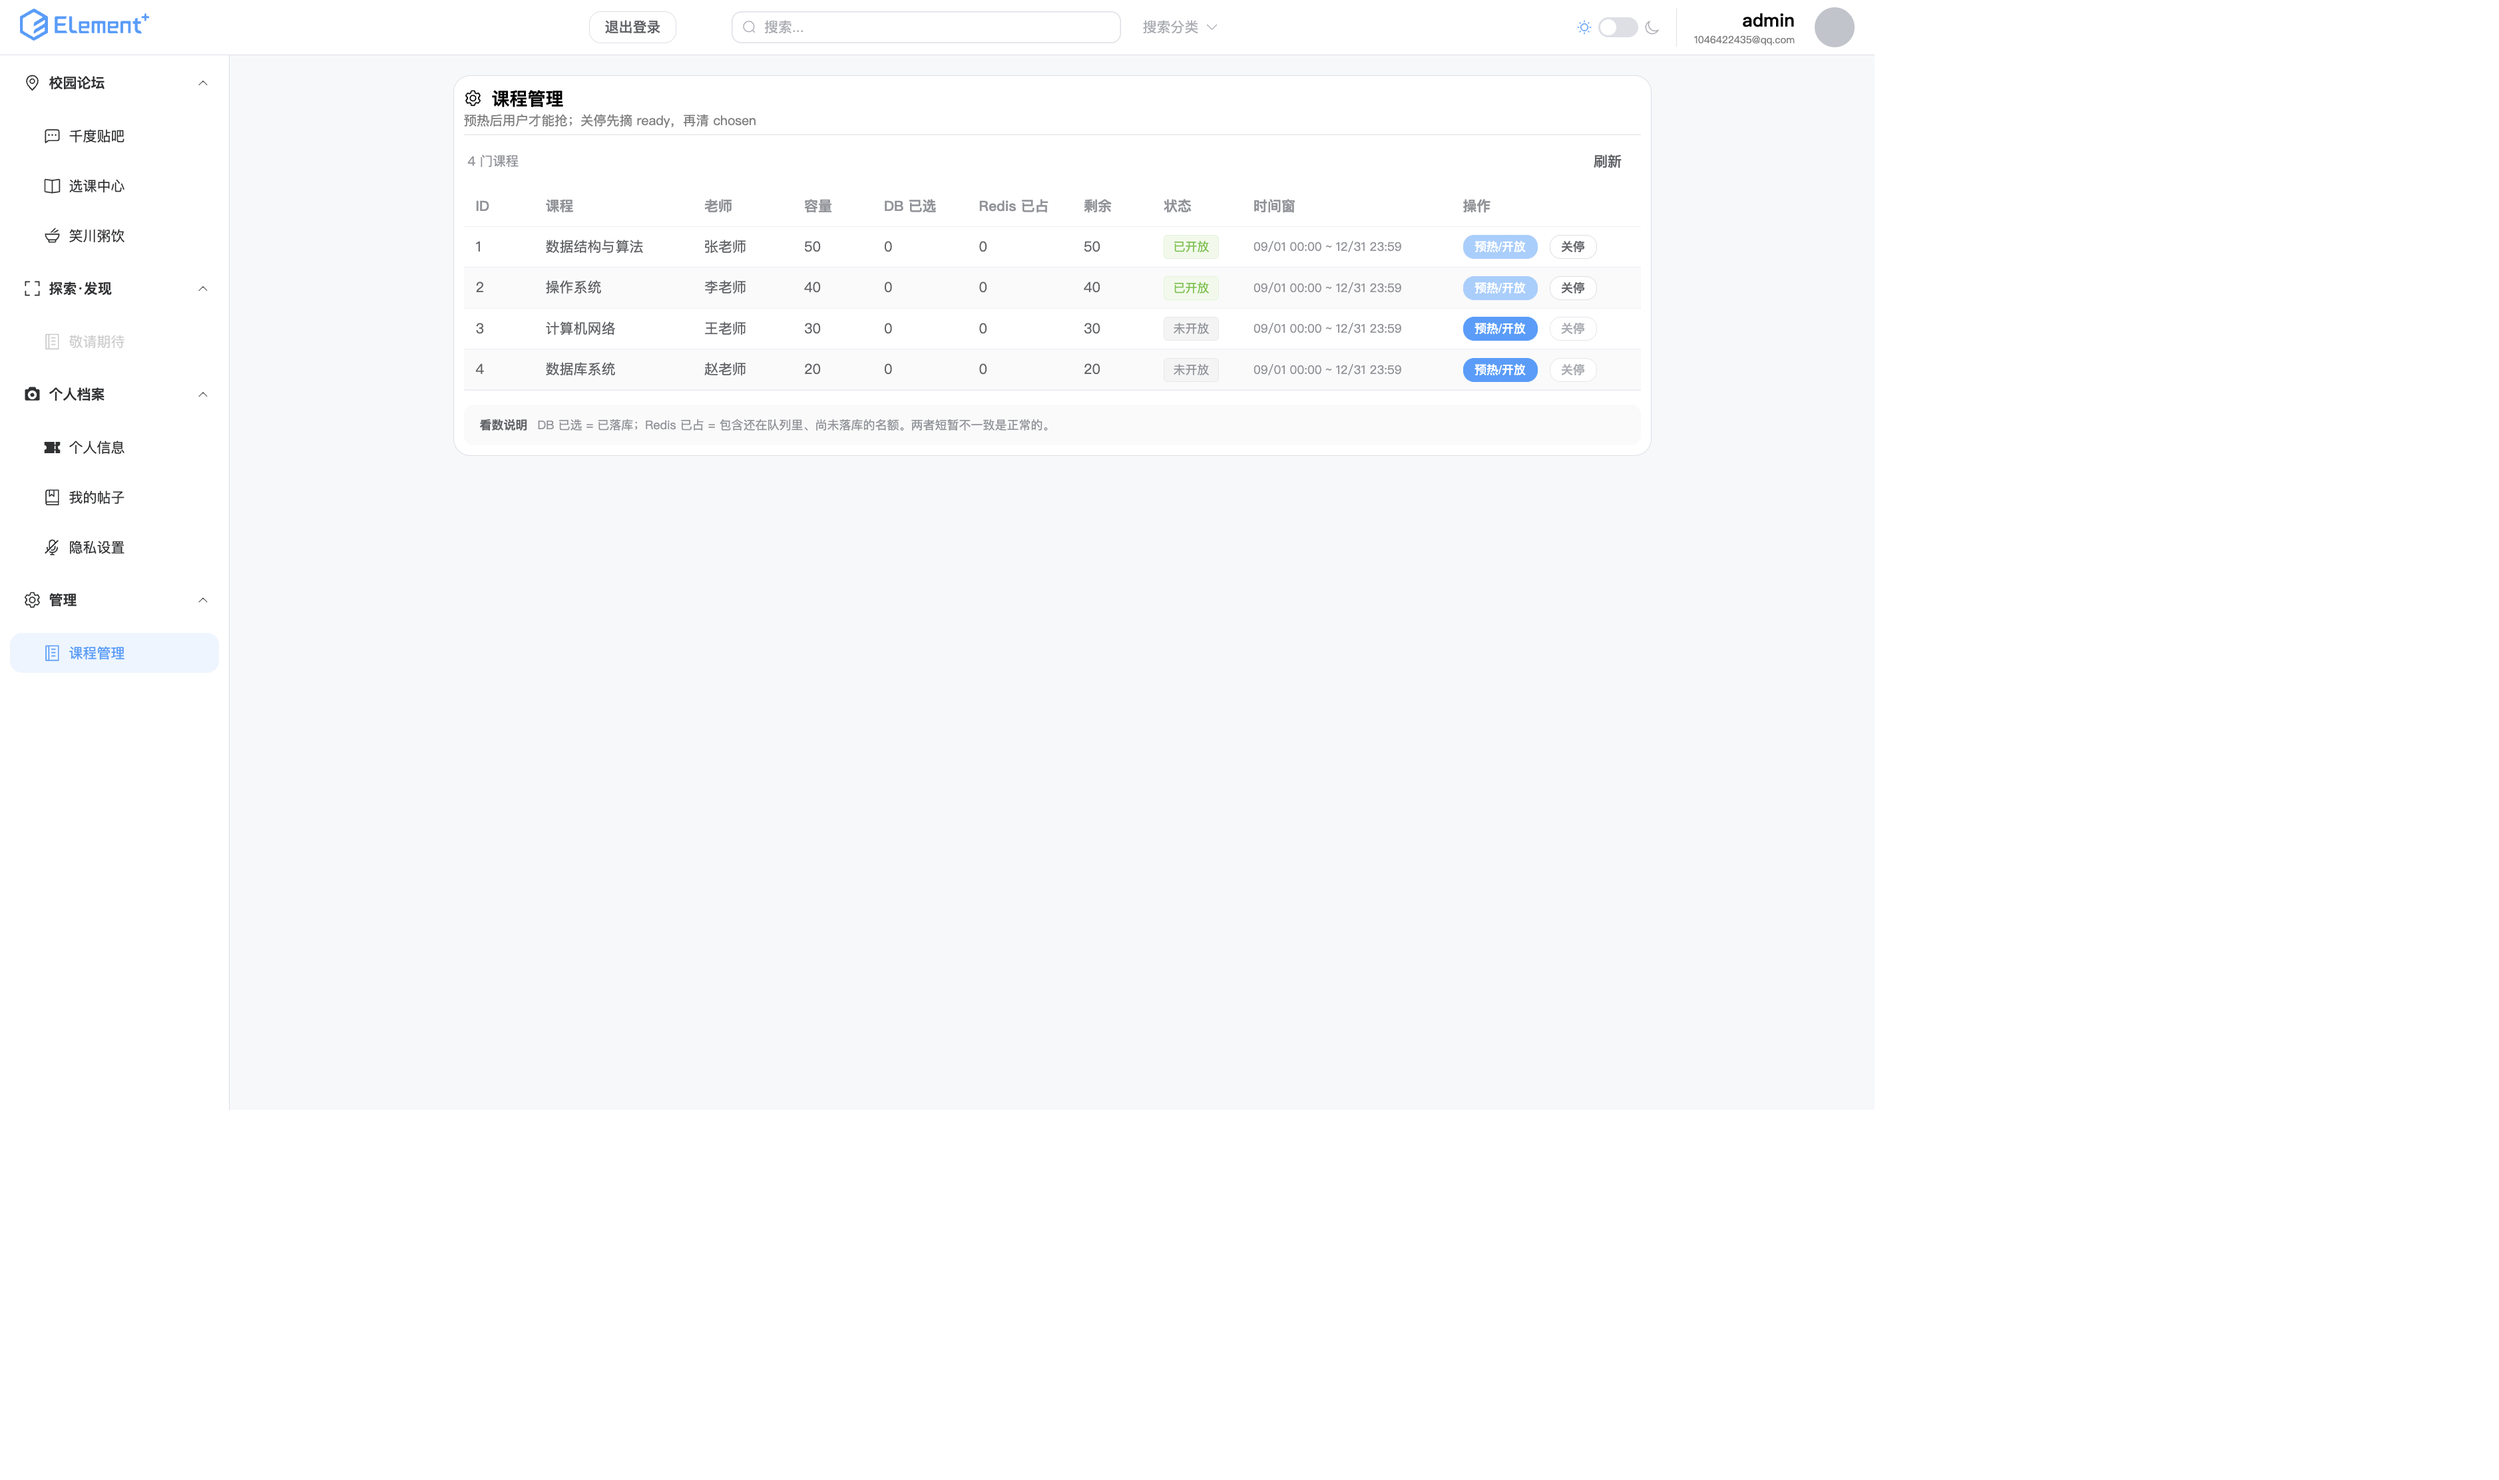
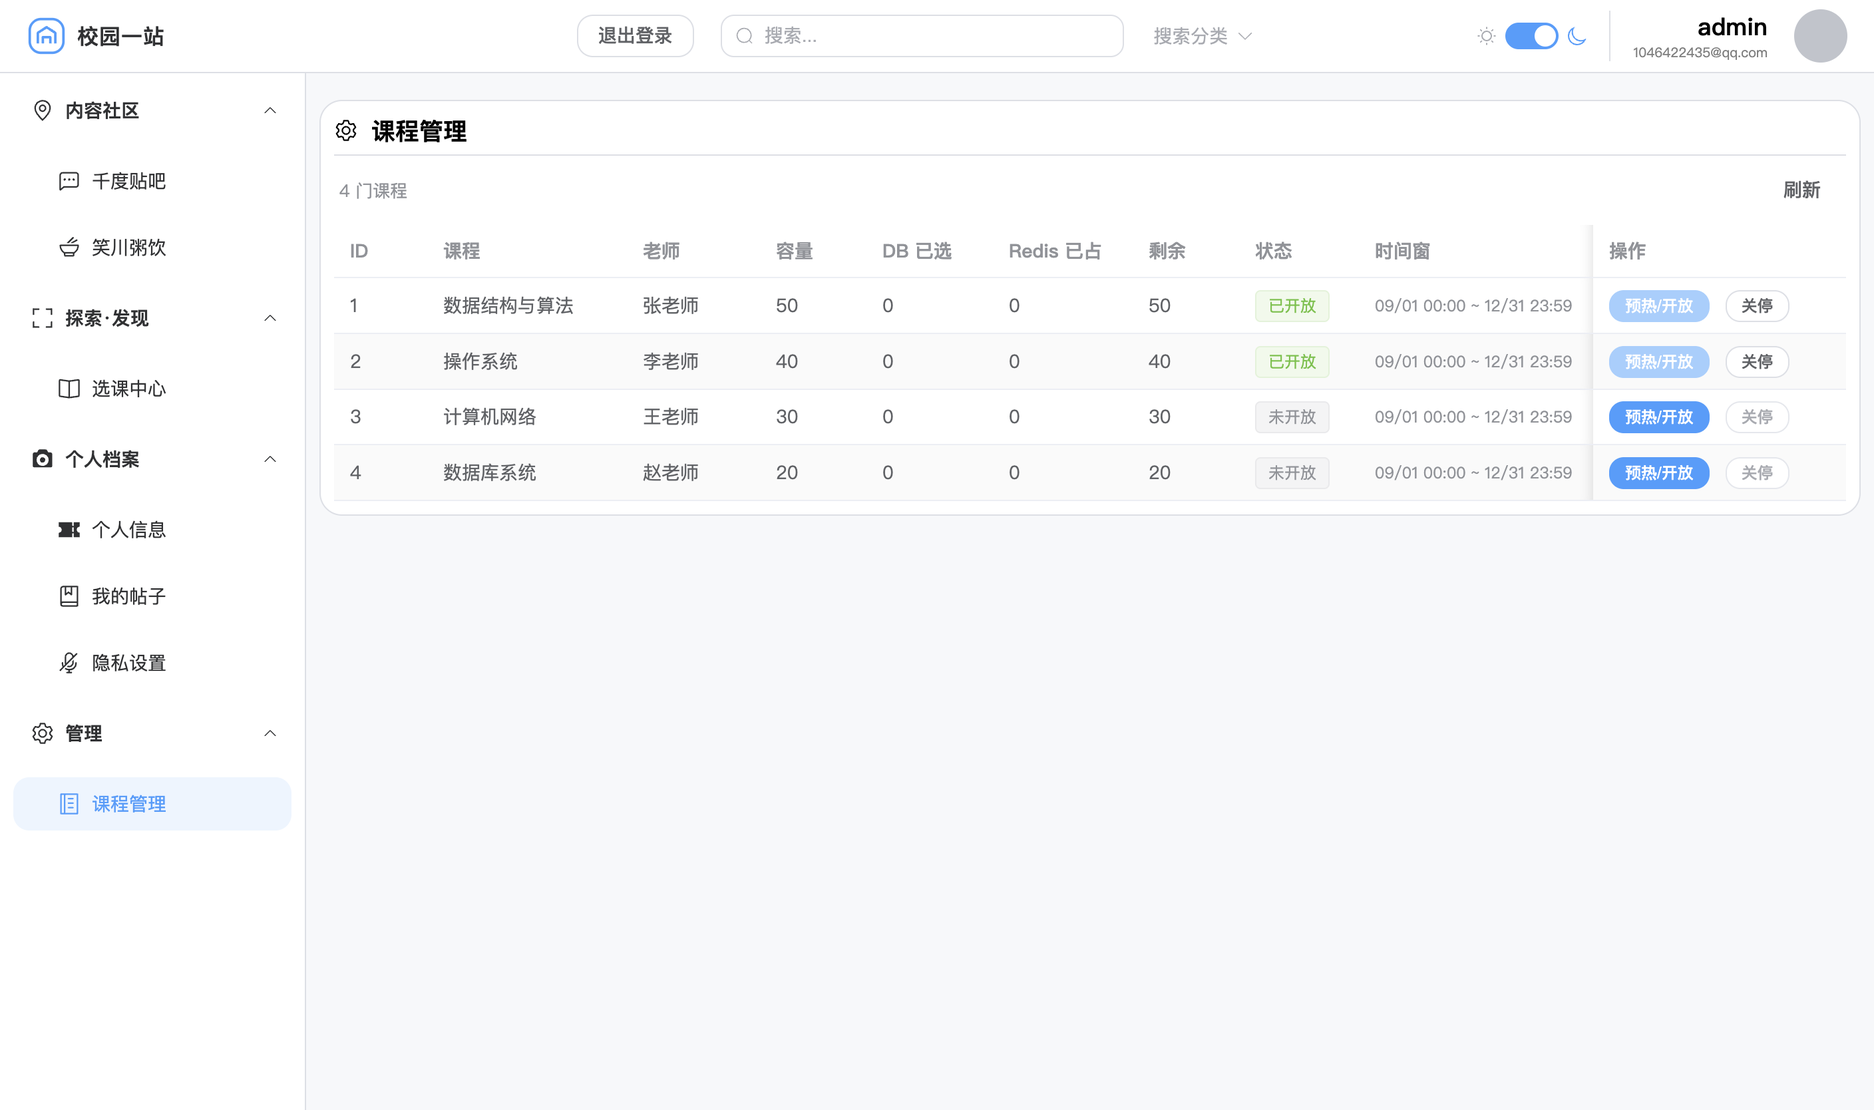
feat: 校园一站品牌、选课入口移入探索发现、精简课程页

diff --git a/my-project-frontend/src/views/IndexView.vue b/my-project-frontend/src/views/IndexView.vue
@@ -1,5 +1,6 @@
 <script setup>
 import {get, logout} from "@/net/index.js";
+import BrandLogo from "@/components/BrandLogo.vue";
 import router from "@/router/index.js";
 import {useStore} from "@/store";
 import {computed, nextTick, onBeforeUnmount, onMounted, reactive, ref} from "vue";
@@ -151,7 +152,7 @@ function userLogout() {
     <el-container style="height: 100%" v-if="!loading">
       <el-header class="main-content-header">
         <div style="flex: 1">
-          <el-image class="logo" src="https://element-plus.org/images/element-plus-logo.svg"></el-image>
+          <BrandLogo/>
         </div>
         <div>
           <el-button @click="userLogout">退出登录</el-button>
@@ -229,18 +230,12 @@ function userLogout() {
               <el-sub-menu index="1">
                 <template #title>
                   <el-icon><location/></el-icon>
-                  <span><b>校园论坛</b></span>
+                  <span><b>内容社区</b></span>
                 </template>
                 <el-menu-item index="/index/tieba">
                   <template #title>
                     <el-icon><chat-dot-square/></el-icon>
                     千度贴吧
-                  </template>
-                </el-menu-item>
-                <el-menu-item index="/index/course">
-                  <template #title>
-                    <el-icon><Reading/></el-icon>
-                    选课中心
                   </template>
                 </el-menu-item>
                 <!--
@@ -260,15 +255,10 @@ function userLogout() {
                   <el-icon><FullScreen /></el-icon>
                   <span><b>探索·发现</b></span>
                 </template>
-                <!--
-                  空子菜单会被 Element Plus 渲染成一个点开什么都没有的面板，
-                  看起来像没做完。所以放一个禁用态的占位项说明"这里以后会有东西"，
-                  比留个空壳强。disabled 让它点不动，也不会误导成可用的功能。
-                -->
-                <el-menu-item disabled>
+                <el-menu-item index="/index/course">
                   <template #title>
-                    <el-icon><Memo /></el-icon>
-                    敬请期待
+                    <el-icon><Reading/></el-icon>
+                    选课中心
                   </template>
                 </el-menu-item>
               </el-sub-menu>
@@ -408,7 +398,7 @@ function userLogout() {
   display: flex;
   align-items: center;
   box-sizing: border-box;
-  .logo{
+  .brand-logo{
     height: 32px;
   }
   .user-info{

diff --git a/my-project-frontend/src/views/course/CourseAdmin.vue b/my-project-frontend/src/views/course/CourseAdmin.vue
@@ -76,7 +76,7 @@ onMounted(load)
 
 <template>
   <div class="admin-page">
-    <Card :icon="Setting" title="课程管理" desc="预热后用户才能抢；关停先摘 ready，再清 chosen">
+    <Card :icon="Setting" title="课程管理">
       <div class="toolbar">
         <span>{{ courses.length }} 门课程</span>
         <el-button text @click="load">刷新</el-button>
@@ -118,11 +118,6 @@ onMounted(load)
       </el-table>
 
       <el-empty v-if="!loading && courses.length === 0" description="暂无课程"/>
-
-      <div class="note">
-        <strong>看数说明</strong>
-        <span>DB 已选 = 已落库；Redis 已占 = 包含还在队列里、尚未落库的名额。两者短暂不一致是正常的。</span>
-      </div>
     </Card>
   </div>
 </template>
@@ -153,23 +148,6 @@ onMounted(load)
   margin-top: 4px;
   font-size: 11px;
   color: var(--el-text-color-secondary);
-}
-
-.note {
-  display: flex;
-  gap: 10px;
-  align-items: baseline;
-  margin-top: 14px;
-  padding: 12px 16px;
-  border-radius: 10px;
-  background: var(--el-fill-color-lighter);
-  font-size: 12px;
-  color: var(--el-text-color-secondary);
-}
-
-.note strong {
-  color: var(--el-text-color-regular);
-  white-space: nowrap;
 }
 
 </style>

diff --git a/my-project-frontend/src/views/course/CourseSelection.vue b/my-project-frontend/src/views/course/CourseSelection.vue
@@ -151,7 +151,7 @@ onUnmounted(() => {
 
 <template>
   <div class="course-page">
-    <Card :icon="Reading" title="选课中心" desc="每个账号同一门课只占一个名额，抢到后异步落库">
+    <Card :icon="Reading" title="选课中心">
       <div class="toolbar">
         <span>{{ courseCount }} 门课程</span>
         <el-button text @click="load">刷新</el-button>
@@ -205,11 +205,6 @@ onUnmounted(() => {
       </el-table>
 
       <el-empty v-if="!loading && courses.length === 0" description="暂无课程"/>
-
-      <div class="note">
-        <strong>看数说明</strong>
-        <span>剩余名额仅供参考；开没开、能不能抢，以接口返回为准。</span>
-      </div>
     </Card>
   </div>
 </template>
@@ -256,23 +251,6 @@ onUnmounted(() => {
   margin-top: 4px;
   font-size: 11px;
   color: var(--el-text-color-secondary);
-}
-
-.note {
-  display: flex;
-  gap: 10px;
-  align-items: baseline;
-  margin-top: 14px;
-  padding: 12px 16px;
-  border-radius: 10px;
-  background: var(--el-fill-color-lighter);
-  font-size: 12px;
-  color: var(--el-text-color-secondary);
-}
-
-.note strong {
-  color: var(--el-text-color-regular);
-  white-space: nowrap;
 }
 
 </style>

diff --git a/my-project-frontend/src/components/BrandLogo.vue b/my-project-frontend/src/components/BrandLogo.vue
@@ -1,0 +1,44 @@
+<script setup>
+/**
+ * 顶部品牌标识。
+ * 图形用 currentColor，文字用 Element Plus 的文本变量，深色/浅色自动适配。
+ * 只是一个占位品牌，名字定了改这里一处即可。
+ */
+</script>
+
+<template>
+  <div class="brand" title="校园一站 · 一站式校园生活服务平台">
+    <svg class="brand-mark" viewBox="0 0 32 32" fill="none" aria-hidden="true">
+      <rect x="2.5" y="2.5" width="27" height="27" rx="9"
+            stroke="currentColor" stroke-width="2"/>
+      <path d="M9 22V13.5L16 9l7 4.5V22"
+            stroke="currentColor" stroke-width="2" stroke-linejoin="round"/>
+      <path d="M13 22v-5h6v5"
+            stroke="currentColor" stroke-width="2" stroke-linejoin="round"/>
+    </svg>
+    <span class="brand-name">校园一站</span>
+  </div>
+</template>
+
+<style scoped>
+.brand {
+  display: flex;
+  align-items: center;
+  gap: 8px;
+  color: var(--el-text-color-primary);
+}
+
+.brand-mark {
+  width: 30px;
+  height: 30px;
+  color: var(--el-color-primary);
+  flex: none;
+}
+
+.brand-name {
+  font-size: 16px;
+  font-weight: 700;
+  letter-spacing: .5px;
+  white-space: nowrap;
+}
+</style>

diff --git a/my-project-frontend/src/views/WelcomeView.vue b/my-project-frontend/src/views/WelcomeView.vue
@@ -21,7 +21,8 @@
       <el-image style="width: 100%;height: 100%" fit="cover" src="/login-bg.jpg"/>
     </div>
     <div class="welcome-title">
-      <div style="font-size: 30px;font-weight: bold">欢迎来到校园论坛</div>
+      <div style="font-size: 30px;font-weight: bold">欢迎来到校园一站</div>
+      <div style="margin-top: 6px;font-size: 14px;opacity: .8">一站式校园生活服务平台</div>
       <!--
         三字一组的排版保留（原来这里是某高校的校训）。
         换成了通用的校园社区说明，因为原校训会让人以为这个论坛属于那所学校 ——

diff --git a/my-project-frontend/src/views/forum/components/ForumSidebar.vue b/my-project-frontend/src/views/forum/components/ForumSidebar.vue
@@ -24,7 +24,7 @@ const today = computed(() => {
         </div>
         <el-divider style="margin: 10px 0"/>
         <div style="font-size: 14px; margin: 10px; color: gray">
-          这里是校园论坛。发帖前先选个版块，图片不超过 900KB。
+          这里是校园一站的内容社区。发帖前先选个版块，图片不超过 900KB。
           理性发言，别发广告，你发了管理员也不一定能发现，管理员发现了也睁一只眼闭一只眼，不然得苦哈哈的上云用sql语句一点一点改。
         </div>
       </card-light>

diff --git a/my-project-frontend/index.html b/my-project-frontend/index.html
@@ -14,7 +14,7 @@
            而这种故障你自己完全控制不了
       本地引入的样式跟着构建产物走，没有这个风险。
     -->
-    <title>校园论坛</title>
+    <title>校园一站 · 一站式校园生活服务平台</title>
     <!--
       标题原来叫 "Vite App"，是脚手架生成的默认值，一直没改。
       浏览器标签页、收藏夹、搜索结果里显示的都是它 —— 面试官打开链接

diff --git a/my-project-frontend/src/views/home/MainPage.vue b/my-project-frontend/src/views/home/MainPage.vue
@@ -24,7 +24,7 @@ onUnmounted(() => {
 <template>
   <div style="display: flex;">
     <div style="margin: 20px;">
-      <Card title='欢迎来到校园论坛'>
+      <Card title='欢迎来到校园一站'>
         <div style="margin-top: 5px;">现在时间是{{ currentTime }}</div>
       </Card>
     </div>

diff --git a/my-project-frontend/src/views/settings/UserSettings.vue b/my-project-frontend/src/views/settings/UserSettings.vue
@@ -251,7 +251,7 @@ async function uploadAvatar(options) {
           <div>
             账号注册时间：{{registerTime}}
           </div>
-          <div style="color: gray">欢迎来到校园论坛</div>
+          <div style="color: gray">欢迎来到校园一站</div>
         </card>
       </div>
 
